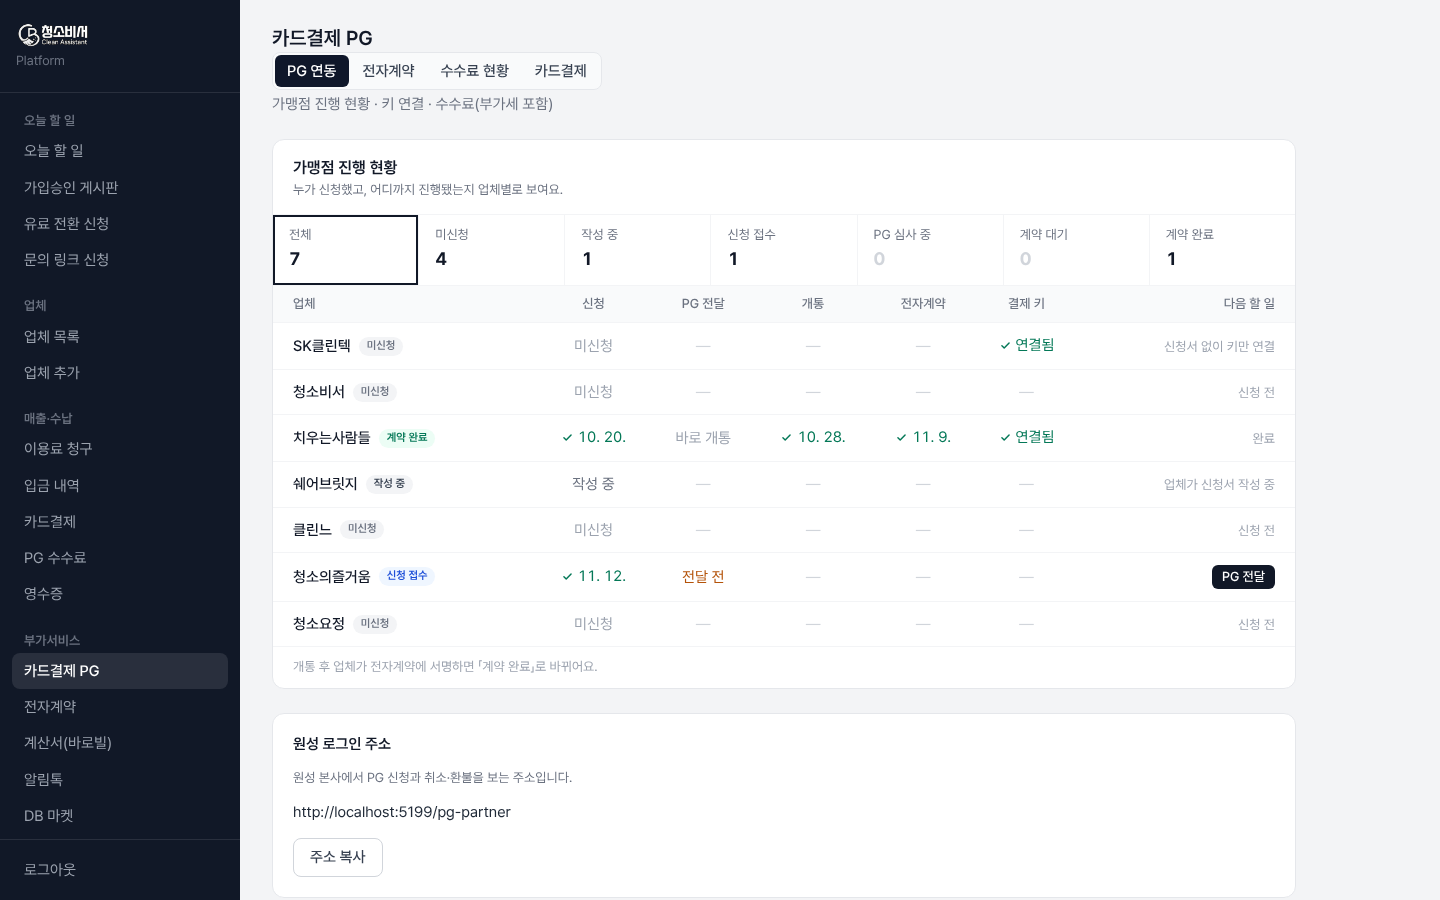
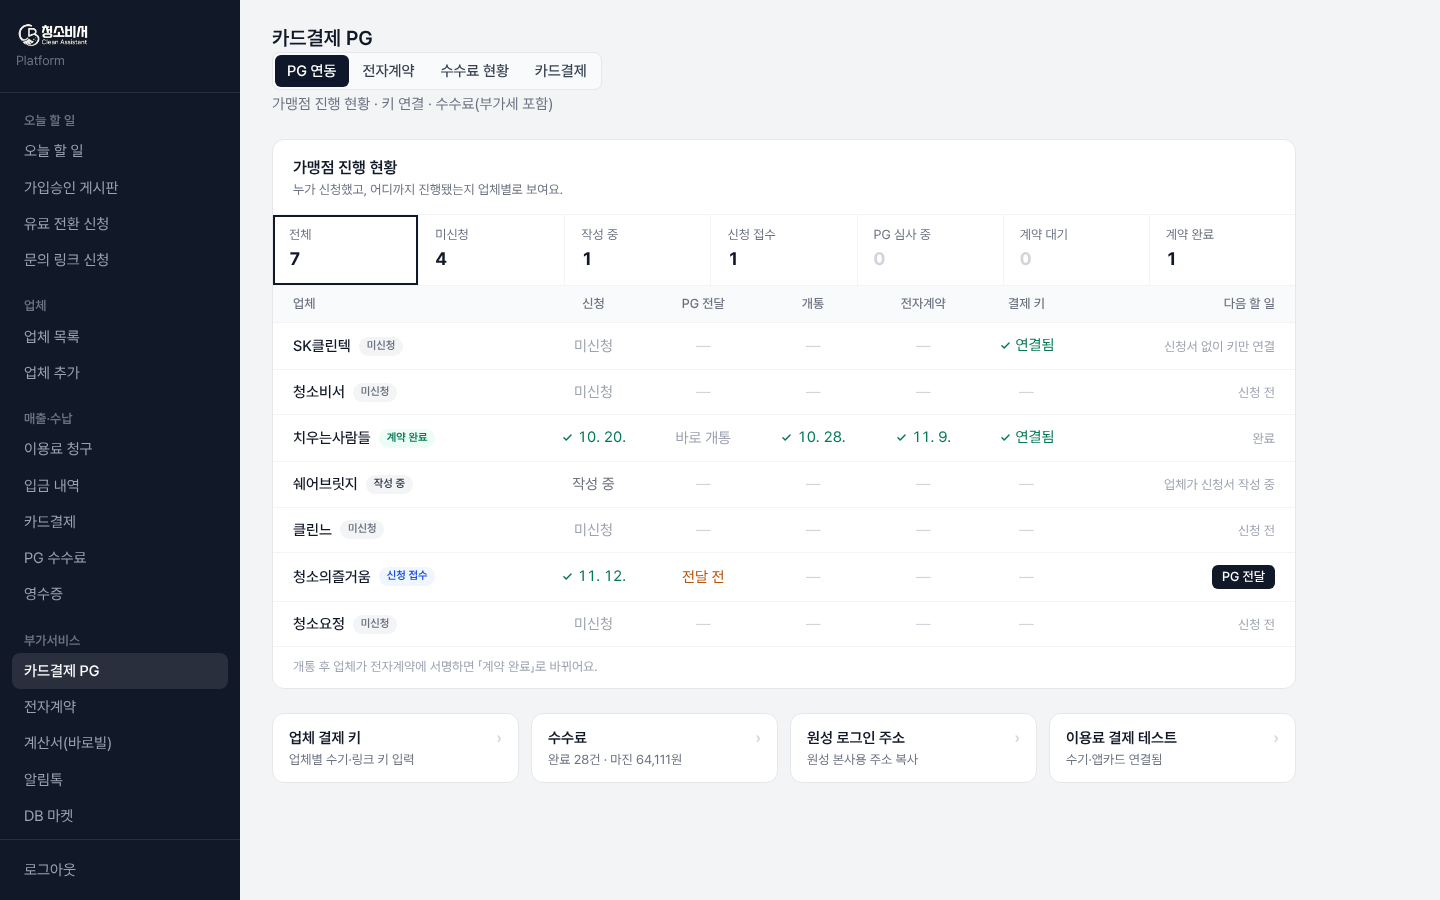
feat(platform-pg): PG 도구 섹션을 버튼 4개와 가운데 창으로 줄인다.
- 업체 결제 키, 수수료, 원성 로그인 주소, 이용료 결제 테스트를 버튼으로
- 누르면 기존 내용을 가운데 창에서 사용

Claude-Session: https://claude.ai/code/session_018ugG5LijTJCLekb58zhUpz

diff --git a/client/src/pages/platform/card-payment/PlatformCardPaymentPage.tsx b/client/src/pages/platform/card-payment/PlatformCardPaymentPage.tsx
@@ -1,6 +1,7 @@
-import { useEffect, useState } from 'react';
+import { useEffect, useState, type ReactNode } from 'react';
+import { createPortal } from 'react-dom';
 import { Link } from 'react-router-dom';
-import { CARD_SECTION, BTN_SECONDARY } from '../../../utils/platformUi';
+import { BTN_SECONDARY } from '../../../utils/platformUi';
 import { PlatformCardPaymentKeySection } from './PlatformCardPaymentKeySection';
 import { PlatformUsageFeeCheck } from './PlatformUsageFeeCheck';
 import { PlatformCardPaymentTabs } from './PlatformCardPaymentTabs';
@@ -20,6 +21,10 @@ export function PlatformCardPaymentPage() {
   const [serviceBridge, setServiceBridge] = useState<
     Awaited<ReturnType<typeof fetchPlatformCardPaymentSettings>>['serviceBridge']
   >(undefined);
+
+  const [tool, setTool] = useState<'keys' | 'fees' | 'partner' | 'usage' | null>(null);
+  const [copied, setCopied] = useState(false);
+  const partnerUrl = `${window.location.origin}/pg-partner`;
 
   const reload = () => {
     void fetchPlatformCardPaymentSettings()
@@ -43,62 +48,180 @@ export function PlatformCardPaymentPage() {
       </div>
 
       <PlatformPgMerchantStatusSection />
-      <section className={CARD_SECTION}>
-        <h2 className="text-sm font-semibold text-gray-900">원성 로그인 주소</h2>
-        <p className="mt-1 text-xs text-gray-500">원성 본사에서 PG 신청과 취소·환불을 보는 주소입니다.</p>
-        <p className="break-all text-sm text-gray-800">{`${window.location.origin}/pg-partner`}</p>
-        <button
-          type="button"
-          className={`${BTN_SECONDARY} focus-visible:outline-none focus-visible:ring-2 focus-visible:ring-slate-400 focus-visible:ring-offset-2`}
-          onClick={() => void navigator.clipboard.writeText(`${window.location.origin}/pg-partner`)}
-        >
-          주소 복사
-        </button>
-      </section>
-
       {error ? <p className="text-sm text-red-700">{error}</p> : null}
 
-      <section className={CARD_SECTION}>
-        <h2 className="text-sm font-semibold text-gray-900">수수료</h2>
-        <p className="mt-1 text-xs text-gray-500">
-          서비스브릿지와 가맹점 사이 마진은 기간·가맹점별로 수수료 현황에서 봅니다. 전체 완료 {summary.approvedCount}건 · 결제합계{' '}
-          {formatWon(summary.amountWon)} · 서비스브릿지 {formatWon(summary.platformCostWon)} · 마진 {formatWon(summary.platformSpreadWon)}
-        </p>
-        <Link
-          to="/platform/card-payment/fees"
-          className={`${BTN_SECONDARY} mt-3 inline-flex hover:bg-slate-100 focus-visible:outline-none focus-visible:ring-2 focus-visible:ring-slate-400 focus-visible:ring-offset-2`}
-        >
-          수수료 현황
-        </Link>
+      <section aria-label="PG 도구" className="grid grid-cols-2 gap-3 lg:grid-cols-4">
+        {(
+          [
+            ['keys', '업체 결제 키', '업체별 수기·링크 키 입력'],
+            [
+              'fees',
+              '수수료',
+              `완료 ${summary.approvedCount}건 · 마진 ${formatWon(summary.platformSpreadWon)}`,
+            ],
+            ['partner', '원성 로그인 주소', '원성 본사용 주소 복사'],
+            [
+              'usage',
+              '이용료 결제 테스트',
+              serviceBridge?.keyin.configured && serviceBridge?.appCard.configured
+                ? '수기·앱카드 연결됨'
+                : serviceBridge?.keyin.configured || serviceBridge?.appCard.configured
+                  ? '일부만 연결됨'
+                  : '키 없음',
+            ],
+          ] as const
+        ).map(([id, title, sub]) => (
+          <button
+            key={id}
+            type="button"
+            onClick={() => {
+              setCopied(false);
+              setTool(id);
+            }}
+            className="group flex min-w-0 flex-col items-start rounded-xl border border-gray-200 bg-white px-4 py-3.5 text-left transition-colors hover:border-gray-300 hover:bg-gray-50 focus-visible:outline-none focus-visible:ring-2 focus-visible:ring-slate-400 focus-visible:ring-offset-2"
+          >
+            <span className="flex w-full items-center justify-between gap-2 text-sm font-semibold text-gray-900">
+              {title}
+              <span className="text-gray-300 transition-colors group-hover:text-gray-500" aria-hidden>
+                ›
+              </span>
+            </span>
+            <span className="mt-1 w-full truncate text-xs text-gray-500">{sub}</span>
+          </button>
+        ))}
       </section>
 
-      <section className={CARD_SECTION}>
-        <h2 className="text-sm font-semibold text-gray-900">이용료 결제 (서비스브릿지)</h2>
-        <p className="mt-1 text-xs text-gray-500">
-          솔루션 이용료 전용입니다. 팀장 청소비 결제에는 쓰이지 않습니다. 수기 승인은 카드결제 탭에서 받습니다.
-        </p>
-        <ul className="mt-3 space-y-1 text-sm text-gray-800">
-          <li>
-            수기(구인증){' '}
-            {serviceBridge?.keyin.configured
-              ? `연결됨 · MID ${serviceBridge.keyin.mid} · OID ${serviceBridge.keyin.oid}`
-              : '아직 서버에 키가 없습니다.'}
-          </li>
-          <li>
-            앱카드(인증){' '}
-            {serviceBridge?.appCard.configured
-              ? `연결됨 · MID ${serviceBridge.appCard.mid} · OID ${serviceBridge.appCard.oid}`
-              : '아직 서버에 키가 없습니다.'}
-          </li>
-        </ul>
-        <PlatformUsageFeeCheck />
-      </section>
+      {tool === 'keys' ? (
+        <ToolModal title="업체 결제 키" onClose={() => setTool(null)} wide>
+          <PlatformCardPaymentKeySection />
+        </ToolModal>
+      ) : null}
 
-      <section className={CARD_SECTION}>
-        <h2 className="text-sm font-semibold text-gray-900">업체 결제 키</h2>
-        <PlatformCardPaymentKeySection />
-      </section>
+      {tool === 'fees' ? (
+        <ToolModal title="수수료" onClose={() => setTool(null)}>
+          <p className="text-sm text-gray-600">서비스브릿지와 가맹점 사이 마진은 기간·가맹점별로 수수료 현황에서 봐요.</p>
+          <dl className="mt-4 grid grid-cols-2 gap-3 text-sm">
+            {(
+              [
+                ['완료 건수', `${summary.approvedCount}건`],
+                ['결제 합계', formatWon(summary.amountWon)],
+                ['서비스브릿지', formatWon(summary.platformCostWon)],
+                ['마진', formatWon(summary.platformSpreadWon)],
+              ] as const
+            ).map(([k, v]) => (
+              <div key={k} className="rounded-lg bg-gray-50 px-3 py-2.5">
+                <dt className="text-xs text-gray-500">{k}</dt>
+                <dd className="mt-0.5 font-semibold tabular-nums text-gray-900">{v}</dd>
+              </div>
+            ))}
+          </dl>
+          <div className="mt-4 flex justify-end">
+            <Link to="/platform/card-payment/fees" className={`${BTN_SECONDARY} inline-flex`}>
+              수수료 현황 보기
+            </Link>
+          </div>
+        </ToolModal>
+      ) : null}
 
+      {tool === 'partner' ? (
+        <ToolModal title="원성 로그인 주소" onClose={() => setTool(null)}>
+          <p className="text-sm text-gray-600">원성 본사에서 PG 신청과 취소·환불을 보는 주소예요.</p>
+          <p className="mt-3 break-all rounded-lg bg-gray-50 px-3 py-2.5 text-sm text-gray-800">{partnerUrl}</p>
+          <div className="mt-4 flex justify-end">
+            <button
+              type="button"
+              className={BTN_SECONDARY}
+              onClick={() => {
+                void navigator.clipboard
+                  .writeText(partnerUrl)
+                  .then(() => setCopied(true))
+                  .catch(() => setCopied(false));
+              }}
+            >
+              {copied ? '복사됨' : '주소 복사'}
+            </button>
+          </div>
+        </ToolModal>
+      ) : null}
+
+      {tool === 'usage' ? (
+        <ToolModal title="이용료 결제 테스트" onClose={() => setTool(null)}>
+          <p className="text-sm text-gray-600">
+            솔루션 이용료 결제 키가 연결됐는지 확인하는 테스트예요. 팀장 청소비 결제에는 쓰이지 않아요.
+          </p>
+          <ul className="mt-3 space-y-1 text-sm text-gray-800">
+            <li>
+              수기(구인증){' '}
+              {serviceBridge?.keyin.configured
+                ? `연결됨 · MID ${serviceBridge.keyin.mid} · OID ${serviceBridge.keyin.oid}`
+                : '아직 서버에 키가 없어요.'}
+            </li>
+            <li>
+              앱카드(인증){' '}
+              {serviceBridge?.appCard.configured
+                ? `연결됨 · MID ${serviceBridge.appCard.mid} · OID ${serviceBridge.appCard.oid}`
+                : '아직 서버에 키가 없어요.'}
+            </li>
+          </ul>
+          <PlatformUsageFeeCheck />
+        </ToolModal>
+      ) : null}
     </div>
+  );
+}
+
+/** 화면 가운데 뜨는 도구 창 */
+function ToolModal({
+  title,
+  onClose,
+  wide,
+  children,
+}: {
+  title: string;
+  onClose: () => void;
+  wide?: boolean;
+  children: ReactNode;
+}) {
+  useEffect(() => {
+    const onKey = (e: KeyboardEvent) => {
+      if (e.key === 'Escape') onClose();
+    };
+    window.addEventListener('keydown', onKey);
+    const prev = document.body.style.overflow;
+    document.body.style.overflow = 'hidden';
+    return () => {
+      window.removeEventListener('keydown', onKey);
+      document.body.style.overflow = prev;
+    };
+  }, [onClose]);
+
+  return createPortal(
+    <div
+      className="fixed inset-0 z-50 flex items-center justify-center bg-black/40 p-4"
+      role="presentation"
+      onClick={onClose}
+    >
+      <div
+        role="dialog"
+        aria-modal="true"
+        aria-label={title}
+        onClick={(e) => e.stopPropagation()}
+        className={`flex max-h-[88dvh] w-full flex-col overflow-hidden rounded-2xl bg-white shadow-xl ${wide ? 'max-w-3xl' : 'max-w-lg'}`}
+      >
+        <div className="flex items-center justify-between gap-3 border-b border-gray-100 px-5 py-4">
+          <h2 className="text-base font-semibold text-gray-900">{title}</h2>
+          <button
+            type="button"
+            onClick={onClose}
+            aria-label="닫기"
+            className="rounded-md px-2 py-1 text-lg leading-none text-gray-400 hover:bg-gray-100 hover:text-gray-700"
+          >
+            ×
+          </button>
+        </div>
+        <div className="min-h-0 overflow-y-auto px-5 py-4">{children}</div>
+      </div>
+    </div>,
+    document.body,
   );
 }

diff --git a/agent/marketing/updates/2026-11-13-platform-pg-merchant-status/update.md b/agent/marketing/updates/2026-11-13-platform-pg-merchant-status/update.md
@@ -4,3 +4,4 @@
 - 누가 쓰나: 플랫폼 운영자
 - 어디서 쓰나: 플랫폼 → 카드결제 PG → PG 연동
 - 이전과 차이: 「가입 신청」 목록은 상태 한 줄만 보여 주고 모든 업체에 「PG 전달」 버튼이 떠 있었습니다. 이제 신청서를 열어 보기만 하고 입력하지 않은 업체는 「미신청」으로 보이고, 단계에 맞는 버튼(PG 전달, 개통 처리·반려)만 보입니다. 처리할 일이 있는 업체가 위에 옵니다.
+- 함께 바뀐 것: 아래에 길게 이어지던 원성 로그인 주소·수수료·이용료 결제·업체 결제 키 섹션을 작은 버튼 4개(업체 결제 키 / 수수료 / 원성 로그인 주소 / 이용료 결제 테스트)로 줄였습니다. 누르면 가운데 창이 열려 기존과 같은 내용을 씁니다.
